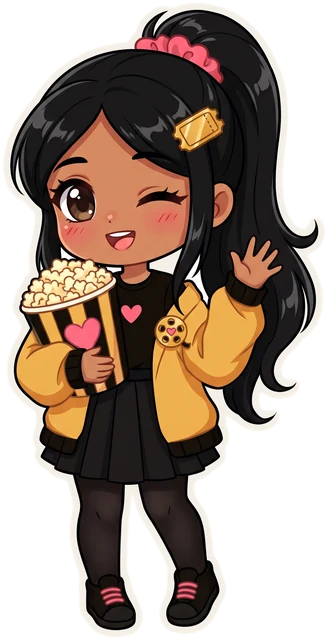
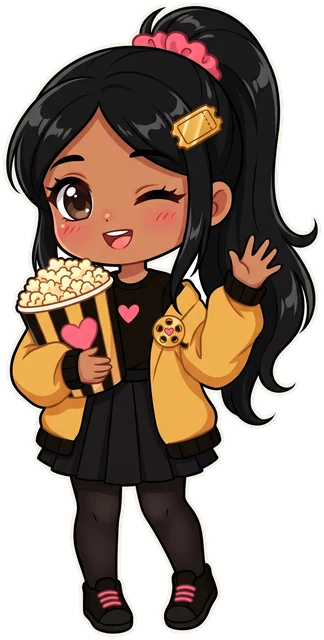
Mascot: thinner cream edge
Half as thick, so she reads less like a sticker but her black hair still
stands apart from the dark theme.

diff --git a/src/components/Mascot.tsx b/src/components/Mascot.tsx
@@ -14,11 +14,11 @@ import { fonts } from '@/lib/theme';
 export type MascotPose = 'hello' | 'welcome' | 'diary' | 'asleep' | 'oops' | 'cheer';
 
 const POSES: Record<MascotPose, { src: number; ratio: number }> = {
-  hello: { src: require('../../assets/mascot/hello.webp'), ratio: 328 / 640 },
-  welcome: { src: require('../../assets/mascot/welcome.webp'), ratio: 361 / 640 },
-  diary: { src: require('../../assets/mascot/diary.webp'), ratio: 385 / 640 },
+  hello: { src: require('../../assets/mascot/hello.webp'), ratio: 324 / 640 },
+  welcome: { src: require('../../assets/mascot/welcome.webp'), ratio: 359 / 640 },
+  diary: { src: require('../../assets/mascot/diary.webp'), ratio: 383 / 640 },
   asleep: { src: require('../../assets/mascot/asleep.webp'), ratio: 640 / 594 },
-  oops: { src: require('../../assets/mascot/oops.webp'), ratio: 374 / 640 },
+  oops: { src: require('../../assets/mascot/oops.webp'), ratio: 371 / 640 },
   cheer: { src: require('../../assets/mascot/cheer.webp'), ratio: 415 / 640 },
 };
 

diff --git a/scripts/mascot-sticker.py b/scripts/mascot-sticker.py
@@ -7,7 +7,7 @@ Gemini sparkle. Steps:
 1. The background is everything near-white and grey (not cream) that joins the picture's corners.
 2. Pockets of background she encloses (between her hair and neck) are found as wide near-white areas
    that survive a shrink, so her eye whites and teeth stay.
-3. A cream edge (#F4EFE6) about 0.6% of the height grows around her, so black hair reads on dark pages.
+3. A thin cream edge (#F4EFE6), about 0.3% of the height, grows around her so black hair reads on dark pages.
 4. Cropped, scaled so the longer side is 640 px, saved as WebP (quality 88, about 45-55 KB).
 """
 
@@ -43,7 +43,7 @@ def sticker(src: str, dst: str, long_side: int = 640) -> None:
     fg &= np.asarray(m) != 128
 
     # 3. The cream edge.
-    blur = np.asarray(Image.fromarray(fg.astype(np.uint8) * 255).filter(ImageFilter.GaussianBlur(h * 0.006))).astype(np.float32) / 255
+    blur = np.asarray(Image.fromarray(fg.astype(np.uint8) * 255).filter(ImageFilter.GaussianBlur(h * 0.003))).astype(np.float32) / 255
     alpha = np.maximum(np.clip((blur - 0.02) / 0.06, 0, 1), fg)
     col = np.where(fg[..., None], a.astype(np.float32), CREAM)
     im = Image.fromarray(np.dstack([col, alpha * 255]).astype(np.uint8), 'RGBA')

diff --git a/docs/mascot-character.md b/docs/mascot-character.md
@@ -20,7 +20,9 @@ over a taller anime one, then asked for the logo's colours on her.
 
 ## Poses
 
-All six are in `assets/mascot/*.webp` (640 px on the longer side, 42 to 55 KB each, cream sticker edge).
+All six are in `assets/mascot/*.webp` (640 px on the longer side, 44 to 56 KB each, a thin cream edge).
+
+The edge was halved on 27 Nov at Inigo's call: without one, her black hair and the beanbag vanish into the dark theme; the thicker one looked like a sticker.
 
 | Pose | App | watchheart.in |
 |---|---|---|
